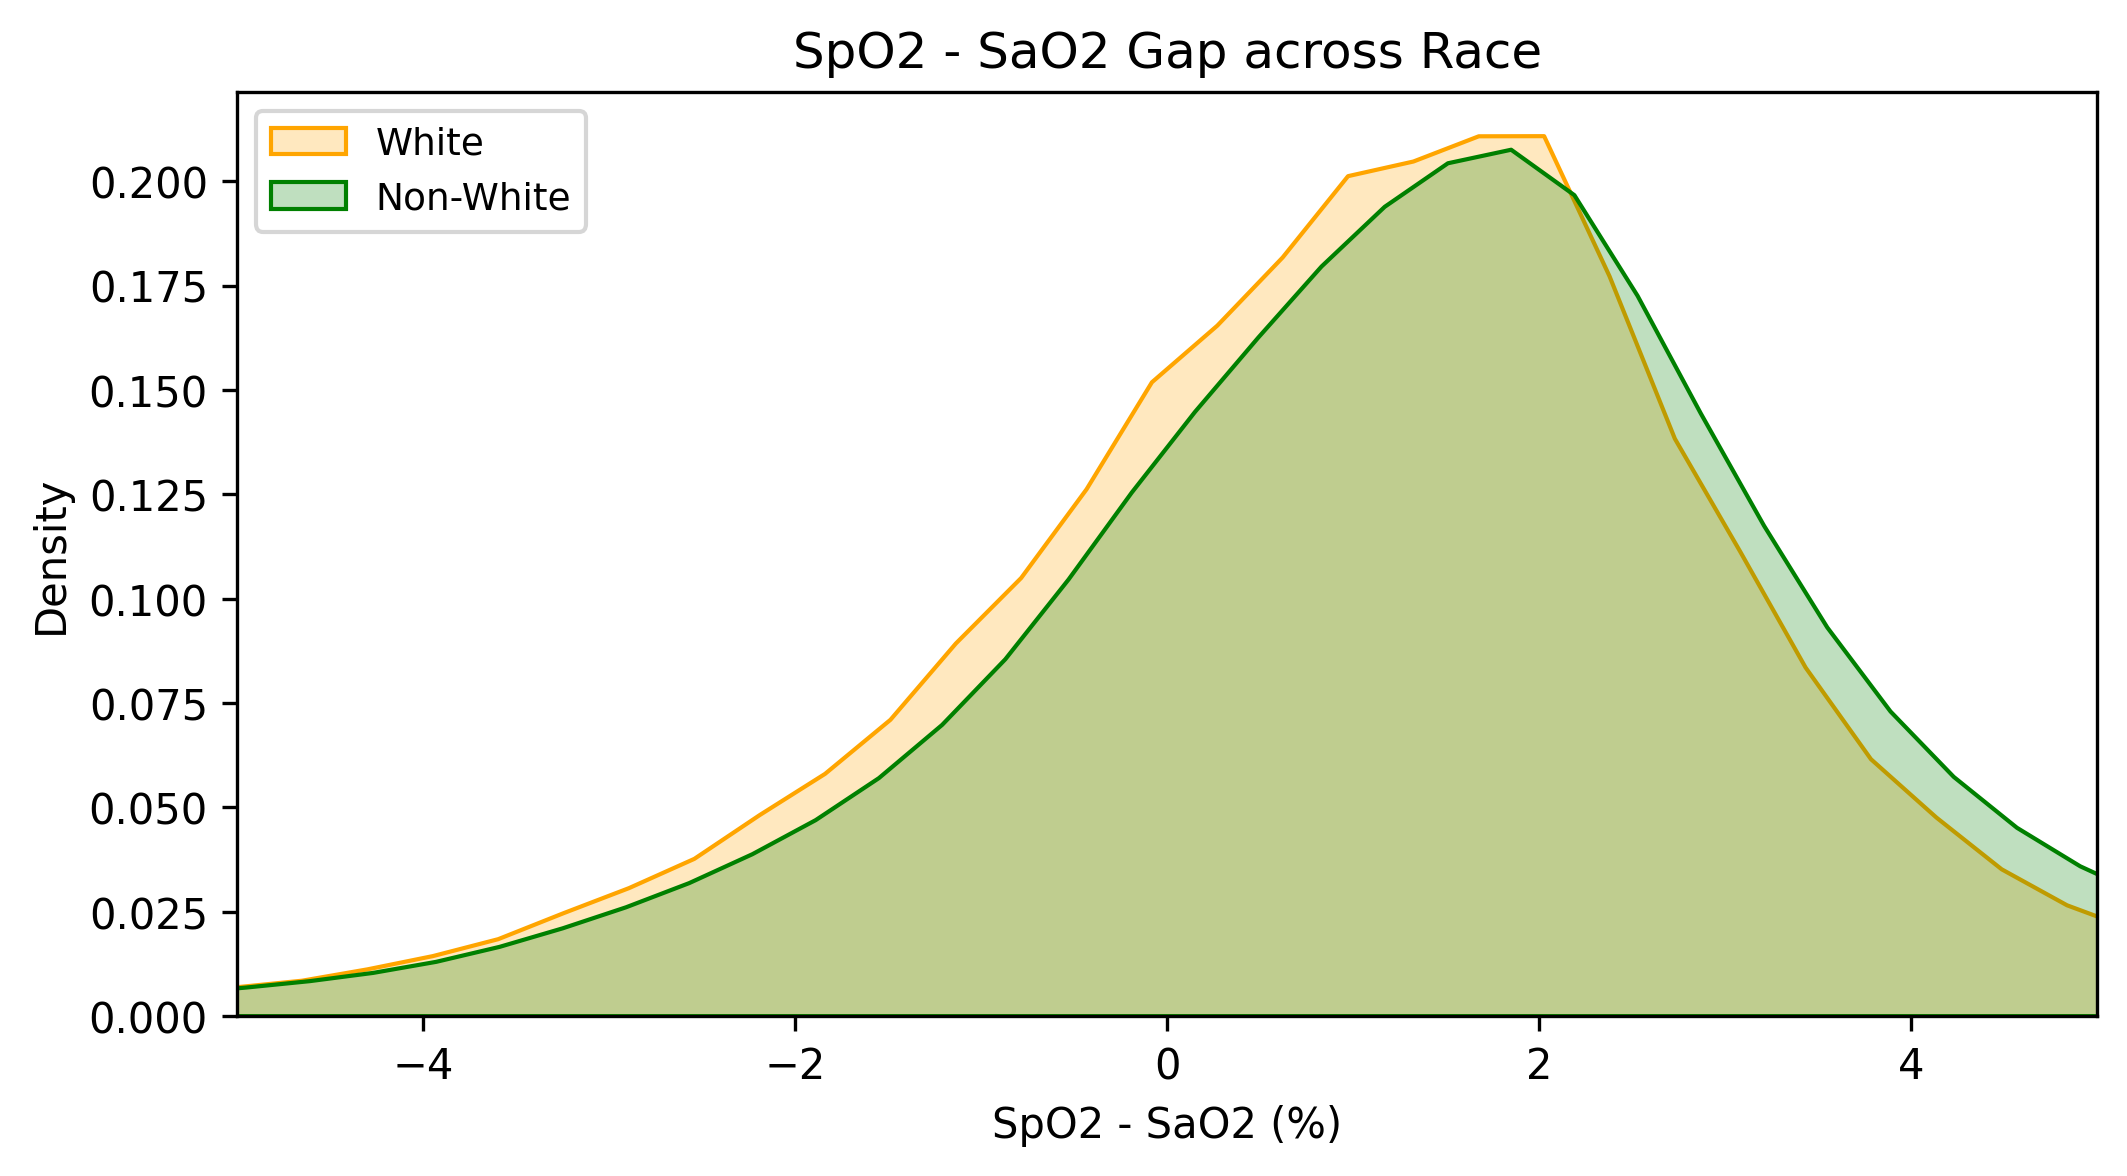
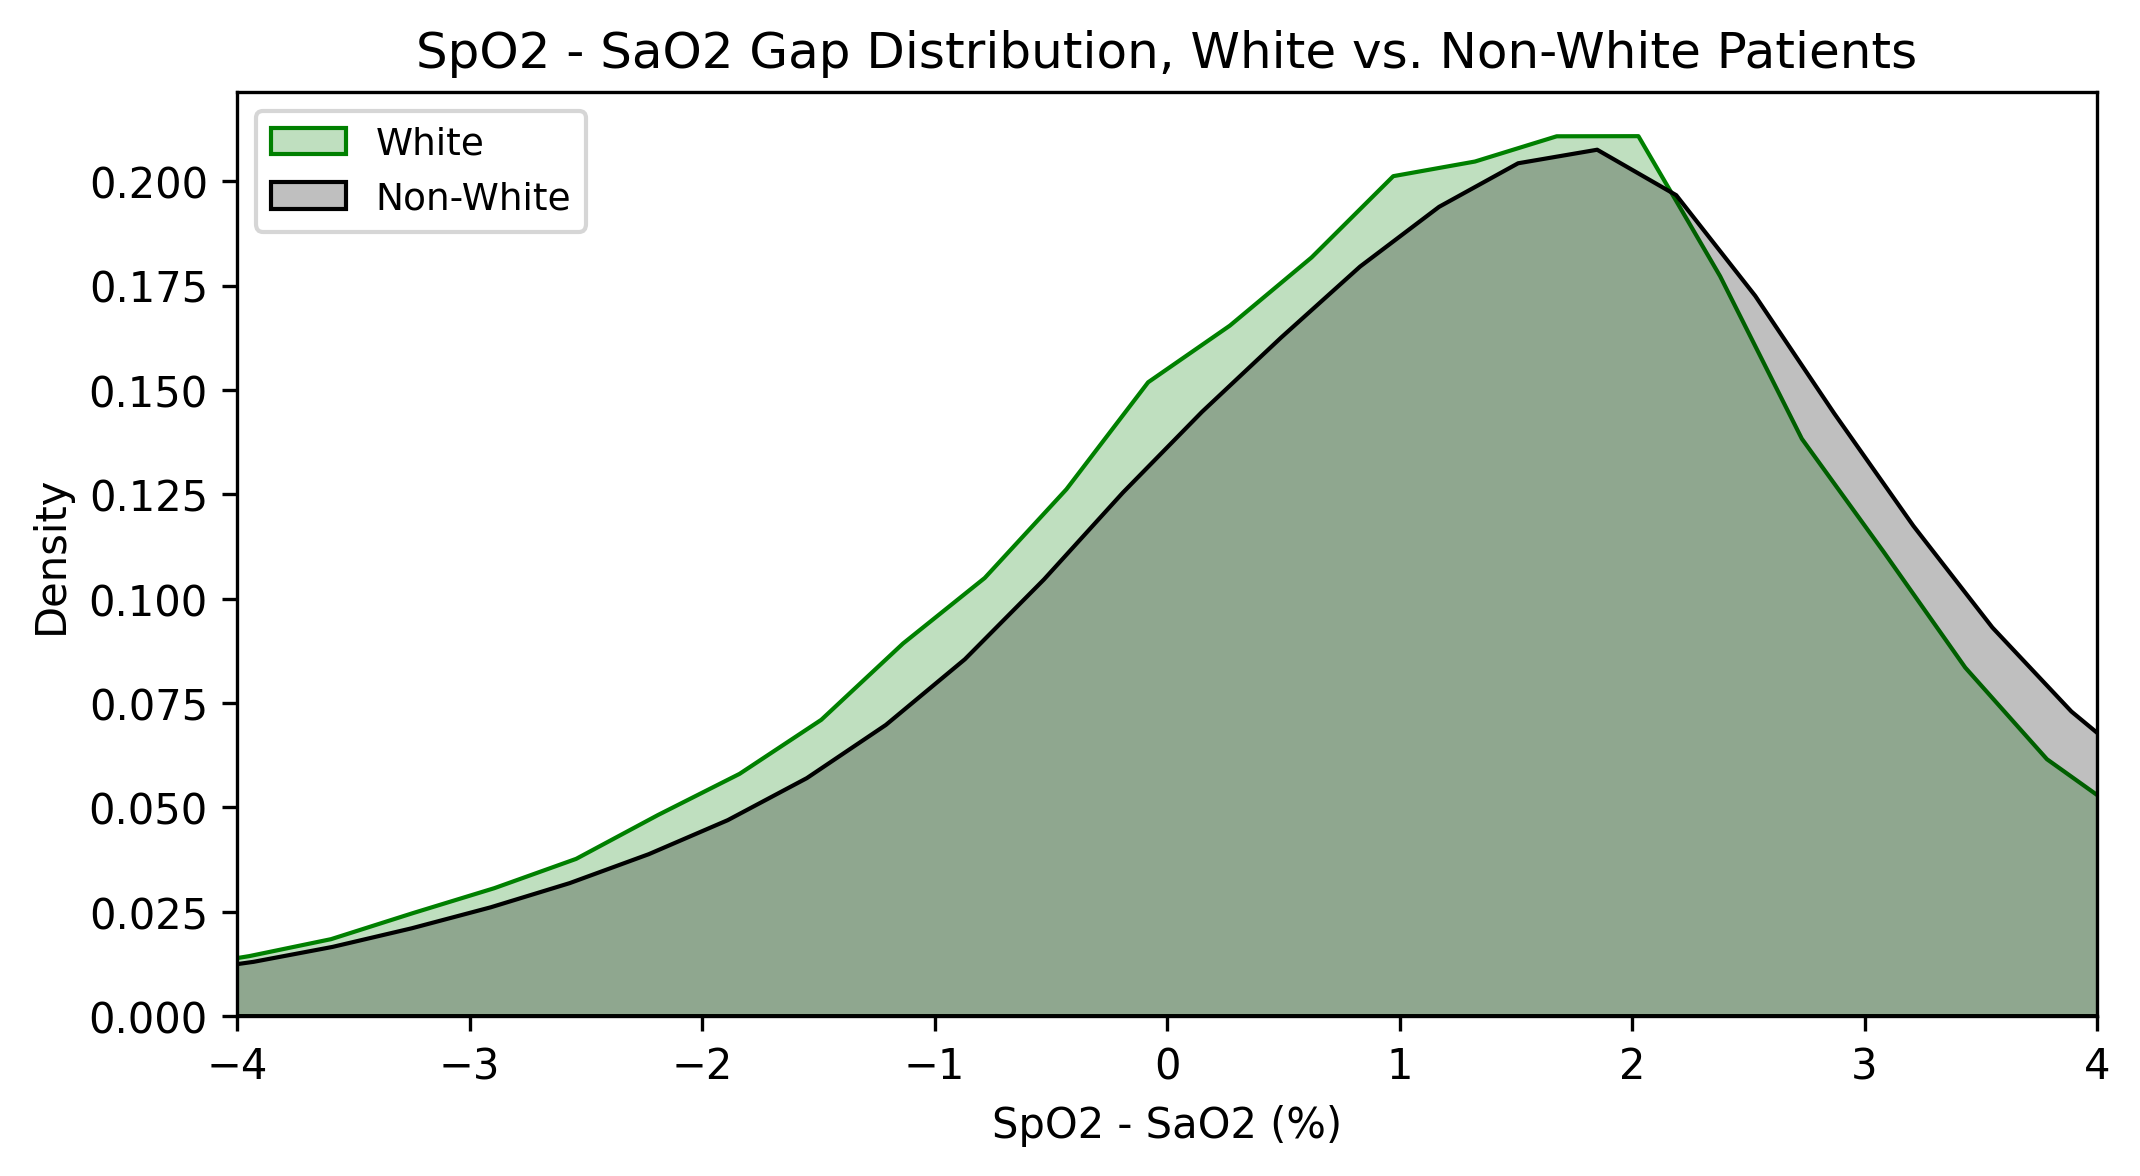
Enhance SHAP plots

diff --git a/src/8_shap.py b/src/8_shap.py
@@ -8,8 +8,17 @@ matplotlib.use('TKAgg')
 # Load test data
 X_test = pd.read_csv('data/ML/X_test.csv')
 
+withSOFA = True
+
+if withSOFA:
+    model_name = "xgbr_wSOFA"
+else:
+    model_name = "xgbr_woSOFA"    
+    X_test = X_test.drop(columns=['sofa_resp'])
+    X_test = X_test.drop(columns=['delta_sofa_resp'])
+
 # Load the model from a file
-filename = "models/xgbr.pkl"
+filename = f"models/{model_name}.pkl"
 model = load_model(filename)
 
 # calculate SHAP values for the test data
@@ -19,11 +28,13 @@ shap_values = explainer(X_test)
 # plot the SHAP values for each feature
 fig, ax = plt.subplots(figsize=(6, 8))
 shap.plots.beeswarm(shap_values, max_display=10, show=False)
+plt.title("Feature Importance: SHAP Values for Top 10 Features")
 plt.tight_layout()
-plt.savefig('results/xgb_shap_plot.png', dpi=300)
+plt.savefig(f'results/shap_{model_name}.png', dpi=300)
 
-# plot the most important features
-fig, ax = plt.subplots(figsize=(6, 8))
-shap.plots.bar(shap_values, max_display=10, show=False)
-plt.tight_layout()
-plt.savefig('results/xgb_ft_plot.png', dpi=300)
+
+# # plot the most important features
+# fig, ax = plt.subplots(figsize=(6, 8))
+# shap.plots.bar(shap_values, max_display=10, show=False)
+# plt.tight_layout()
+# plt.savefig('results/xgb_ft_plot.png', dpi=300)

diff --git a/src/1_EDA.py b/src/1_EDA.py
@@ -39,7 +39,7 @@ table1_raw = TableOne(data, columns=categorical+nonnormal,
                       smd=True, 
                       dip_test=True, normal_test=True, tukey_test=True, htest_name=True)
 
-table1_raw.to_excel('EDA/table1_rawW.xlsx')
+table1_raw.to_excel('EDA/raw_table1.xlsx')
 
 # Plots
 df = pd.read_csv('data/MIMIC_IV.csv')[['SaO2','SpO2','delta_SpO2', 'race_group']]
@@ -69,7 +69,7 @@ fig2.suptitle('SaO2 and SpO2 Density Distributions')
 fig2.savefig('EDA/dist_SaO2vsSpO2.png', dpi=300, bbox_inches='tight')
 
 
-colors = ['orange', 'green']
+colors = ['green', 'black']
 fig3, ax3 = plt.subplots(1, 1, sharex= True, sharey=True, figsize=(8,4))
 
 for i, r in enumerate(races):
@@ -77,10 +77,10 @@ for i, r in enumerate(races):
     sns.kdeplot(x=df[df.race_group == r].SpO2 - df[df.race_group == r].SaO2,
                 ax=ax3, color=colors[i], fill=True, label=r)
     
-ax3.set_xlim([-5,5])
+ax3.set_xlim([-4,4])
 ax3.legend(loc='upper left', ncol=1, fontsize=9)
 ax3.set_xlabel('SpO2 - SaO2 (%)')
-ax3.set_title('SpO2 - SaO2 Gap across Race')
+ax3.set_title('SpO2 - SaO2 Gap Distribution, White vs. Non-White Patients')
 
 fig3.savefig('EDA/dist_SaO2-SpO2.png', dpi=300, bbox_inches='tight')
 

diff --git a/src/7A_xgbr.py b/src/7A_xgbr.py
@@ -37,7 +37,7 @@ model = XGBRegressor(**best_params)
 model.fit(X_train, y_train)
 
 # Make predictions on the train set
-evaluate_model(model, X_train, y_train, f"{model_name}_train")
+# evaluate_model(model, X_train, y_train, f"{model_name}_train")
 
 # Save the model to a file
 filename = f"models/{model_name}.pkl"
